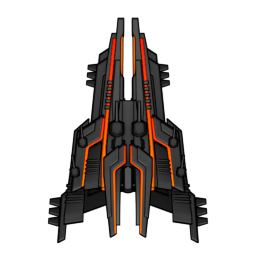
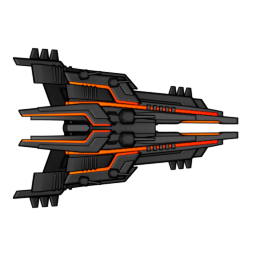
Fixed #7.
Now we have a bunch of circlular "bullets" to use.

Also fixed enemy ships orientation.

diff --git a/Ship.js b/Ship.js
@@ -24,9 +24,9 @@ class Ship extends Phaser.Physics.Arcade.Sprite {
         // so that the bullets spawn obscured by the ship sprite)
         this.bullet = [];
         for (let i = 0; i < 10; i++) {
-            this.bullet[i] = scene.physics.add.sprite(x, y, "pew").setCircle(256 / 2, 0, 256 / 2 - 256 / 2);
+            this.bullet[i] = scene.physics.add.sprite(x, y, "pew").setCircle(39 / 4, 39 /4,39 /4);
             if (isEnemy) { this.bullet[i].tint = 0xFF6666; }
-            this.bullet[i].setScale(0.25);
+            
             this.bullet[i].x = -9999;
             this.bullet[i].y = -9999;
 
@@ -136,7 +136,7 @@ class Ship extends Phaser.Physics.Arcade.Sprite {
             this.bullet[this.nextBullet].y = this.y;
 
             let speed = -800;
-            // if(this.enemy) {speed = -200;} // Gimp the enemies, to make them easier to dodge
+             if(this.isEnemy) {speed = -200;} // Gimp the enemies, to make them easier to dodge
 
             // Use vectors to set the path of the bullet, use the X axis to align with the player ship.
             let v = new Phaser.Math.Vector2(-speed, 0);
@@ -288,10 +288,11 @@ class Ship extends Phaser.Physics.Arcade.Sprite {
 
 
 
+        //this.shoot();
 
         this.angle = Phaser.Math.RadToDeg(
             Phaser.Math.Angle.Between(this.x, this.y, Ship.playerShip.x, Ship.playerShip.y)
-        ) + 90; // The +90 is to ensure it points forward rather than to the right.
+        ); // The +90 is to ensure it points forward rather than to the right.
 
 
 

diff --git a/GameScene.js b/GameScene.js
@@ -25,7 +25,7 @@ class GameScene extends Phaser.Scene {
 
         this.load.image('flare', 'particles/flare.png');
 
-        this.load.image('pew', 'pew.png');
+        this.load.image('pew', 'bullets/pew-yellow.png');
         this.load.image('red', 'red.png')
 
         var u;
